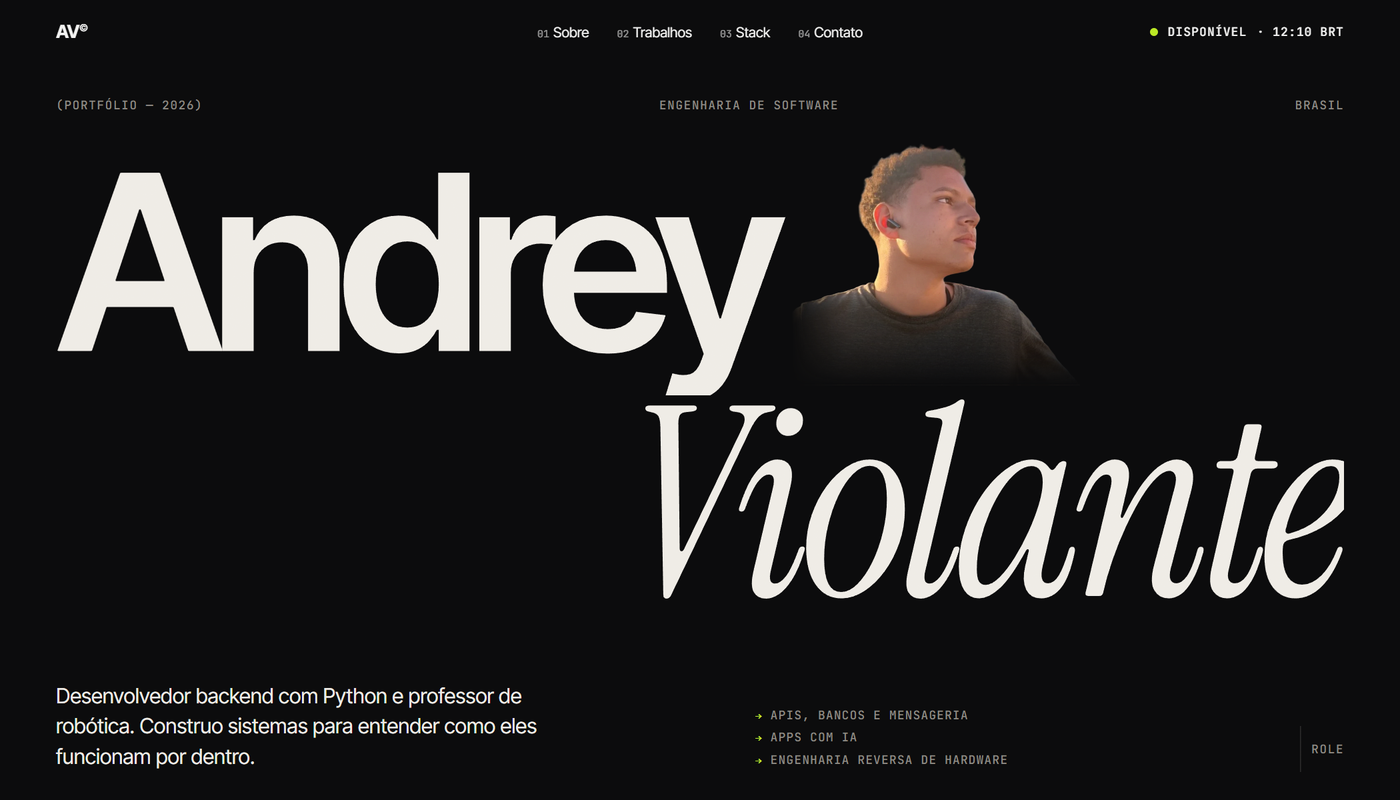
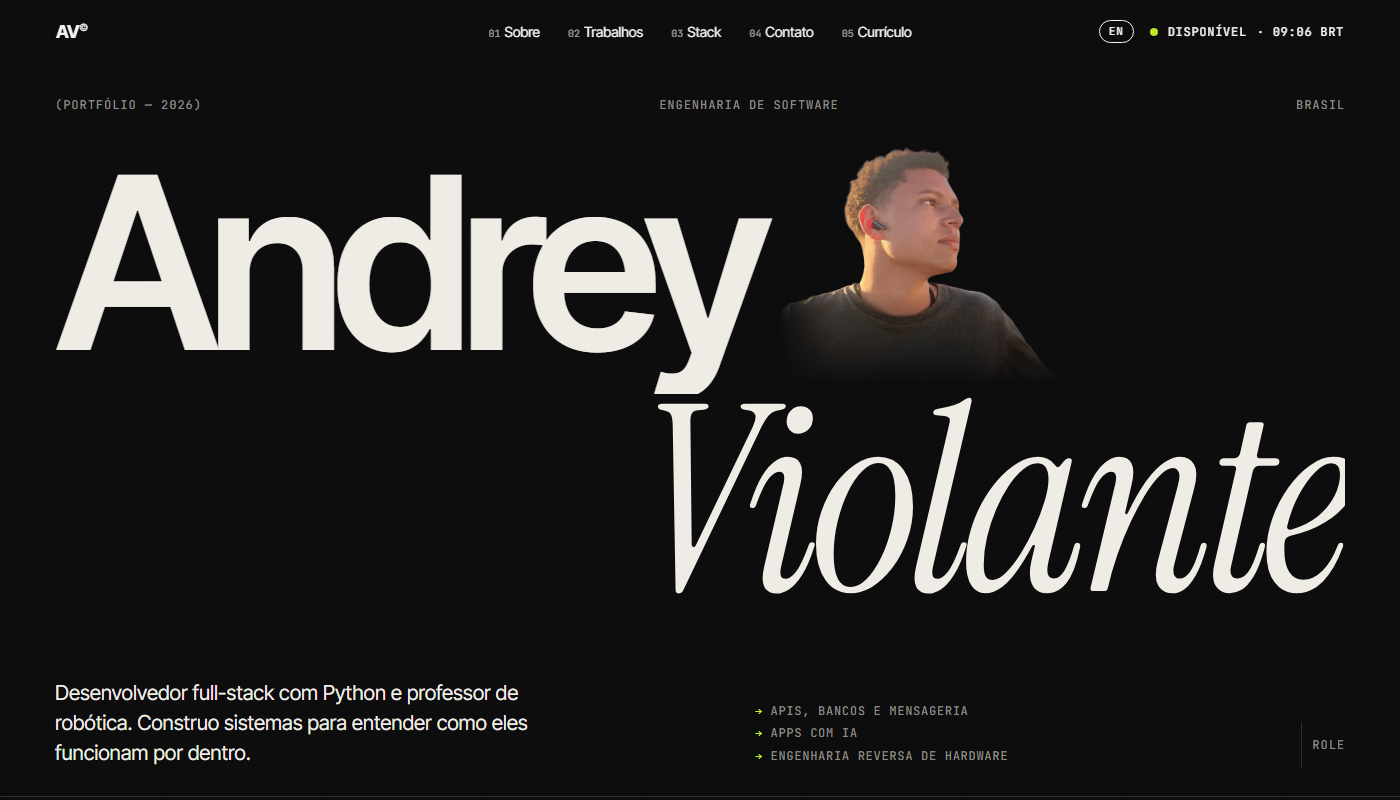
README em Full-Stack, com React, HTML e CSS nas tecnologias e nova captura do portfólio

diff --git a/README.md b/README.md
@@ -1,6 +1,6 @@
 ## Olá, eu sou o Andrey 👋
 
-Estudante de Engenharia de Software (6º período), focado em **backend com Python**, e professor de robótica desde 2023.
+Estudante de Engenharia de Software (6º período), focado em **full-stack com Python**, e professor de robótica desde 2023.
 Aprendo construindo: APIs com mensageria, apps Android nativos e até a engenharia reversa
 do protocolo de um robô educacional que não tinha documentação nenhuma.
 
@@ -128,6 +128,9 @@ Exercícios de backend da faculdade: APIs em FastAPI com PostgreSQL, MongoDB, Ra
 ![Python](https://img.shields.io/badge/Python-3776AB?style=flat-square&logo=python&logoColor=white)
 ![FastAPI](https://img.shields.io/badge/FastAPI-009688?style=flat-square&logo=fastapi&logoColor=white)
 ![Django](https://img.shields.io/badge/Django-092E20?style=flat-square&logo=django&logoColor=white)
+![React](https://img.shields.io/badge/React-20232A?style=flat-square&logo=react&logoColor=61DAFB)
+![HTML](https://img.shields.io/badge/HTML-E34F26?style=flat-square&logo=html5&logoColor=white)
+![CSS](https://img.shields.io/badge/CSS-1572B6?style=flat-square&logo=css&logoColor=white)
 ![PostgreSQL](https://img.shields.io/badge/PostgreSQL-4169E1?style=flat-square&logo=postgresql&logoColor=white)
 ![MongoDB](https://img.shields.io/badge/MongoDB-47A248?style=flat-square&logo=mongodb&logoColor=white)
 ![RabbitMQ](https://img.shields.io/badge/RabbitMQ-FF6600?style=flat-square&logo=rabbitmq&logoColor=white)
@@ -141,4 +144,4 @@ Exercícios de backend da faculdade: APIs em FastAPI com PostgreSQL, MongoDB, Ra
 
 ---
 
-Aberto a oportunidades de **estágio** e **backend júnior**. Me chama no [LinkedIn](https://linkedin.com/in/andrey-violante).
+Aberto a oportunidades de **estágio** e **full-stack júnior**. Me chama no [LinkedIn](https://linkedin.com/in/andrey-violante).
